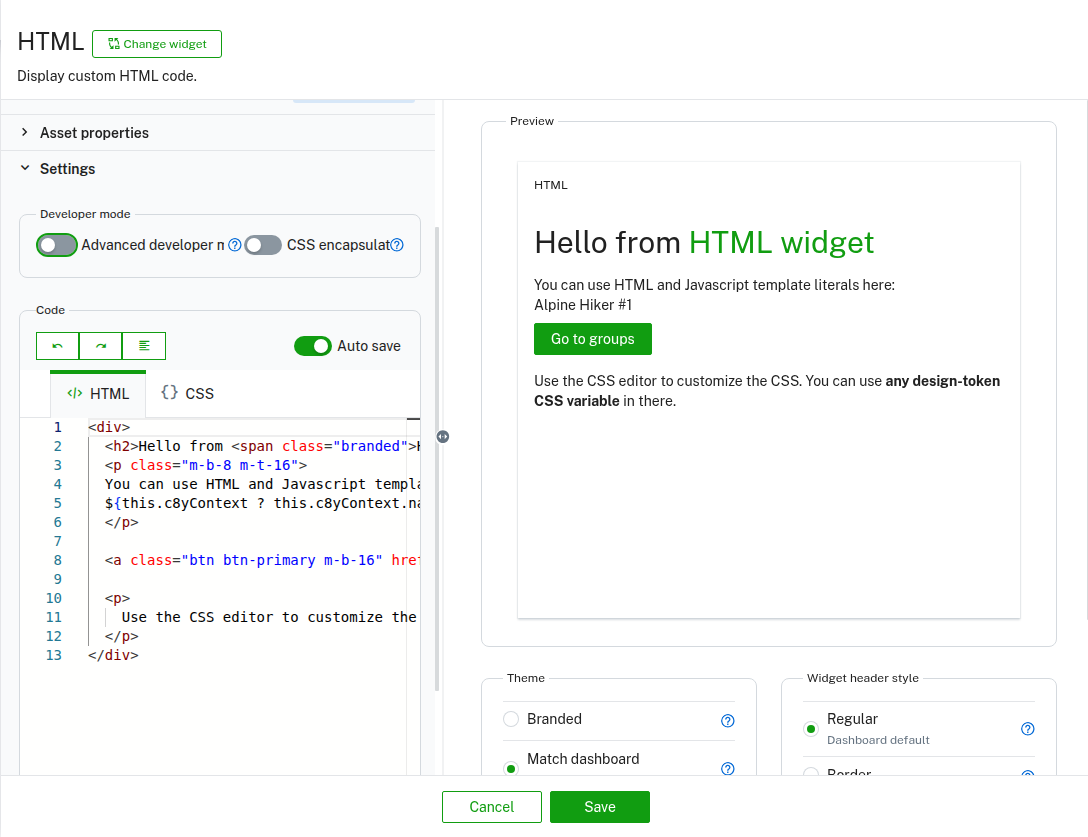
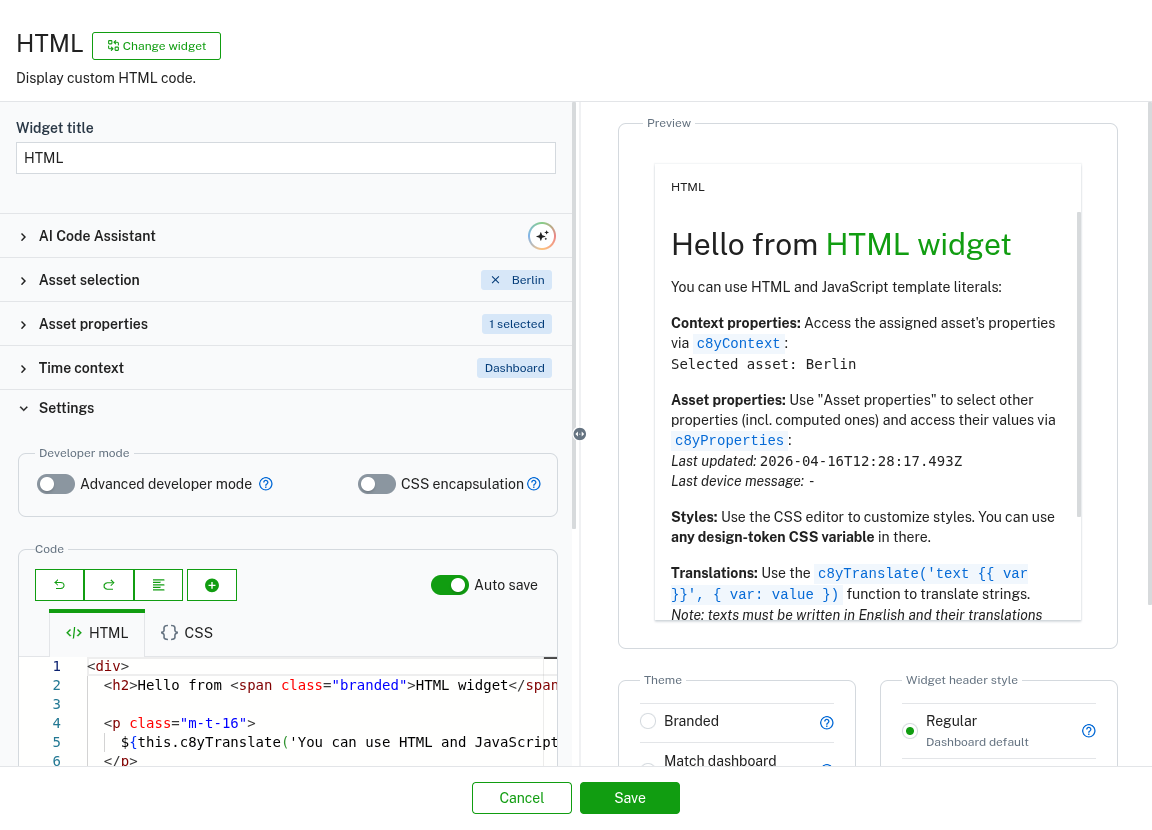
[MTM-66200] Updated docs for HTML widget

diff --git a/content/cockpit/widgets-collection.md b/content/cockpit/widgets-collection.md
@@ -229,12 +229,12 @@ The "HTML" widget displays user-defined content that can be formatted using HTML
 **Parameters to configure**
 
 * **Target assets or devices**: Select the objects for which optional HTML expressions are evaluated.
-* **Asset properties**: In the **Asset properties** section, you can copy the properties of the selected asset and paste them into the code editor under the **Settings** section.
+* **Asset properties**: In the **Asset properties** section, you can add mappings to asset properties. Click **Add mappings**, then select an asset, then select an asset/regular/computed property you'd like to use in the HTML code. Use icon buttons to copy a code expression, clear a mapping, assign another property, or remove a mapping. When you rename a mapping key, all references in the HTML code are updated automatically. At runtime, all mapped values are accessible in the HTML code under `this.c8yProperties`, a plain object keyed by the mapping names.
 
 The widget offers two distinct modes:
 
 1. **Normal mode**: You can apply HTML and CSS while adding properties as template literals. You can use simple expressions such as:
-   `${this.c8yContext ? this.c8yContext.name : 'No device selected'}`. The `${this.c8yContext}` variable always refers to the selected target asset.
+   `${this.c8yContext ? this.c8yContext?.name : 'No device selected'}`. The `${this.c8yContext}` variable always refers to the selected target asset. Use `${this.c8yProperties?.<mappingName>}` to access mapped asset properties.
 
 2. **Advanced mode**: When enabled, you can build complex web components using the Lit framework. You can import supported ECMAScript modules. By default, leaflet, echarts, fetch, and lit are provided. Whatever is rendered in the web component will be displayed to the end user. Additional requests can be performed by importing the fetch library. The following shows the available imports:
 
@@ -246,9 +246,28 @@ The widget offers two distinct modes:
    import { fetch } from 'fetch'; // Use this instead of default fetch to avoid potential issues
    ```
 
+**Inserting mapped properties into the code**
+
+When asset property mappings are configured, a dropdown button with plus icon appears in the code editor toolbar. Click a key to insert the appropriate template expression (for example, `${this.c8yProperties?.temperature}`) at the cursor position. Mapped keys also appear as autocomplete suggestions when typing `this.c8yProperties?.` or the name of a mapping.
+
+**Note**: in case the referenced property is a complex object (for example, a full measurement object), you need to explicitly access a specific field (for example, `${this.c8yProperties?.temperature?.value}` or `${this.c8yProperties?.temperature?.unit}`) or use `JSON.stringify(this.c8yProperties?.temperature)` to display whole object as a string.
+
+**Auto-refresh**
+
+The HTML widget is integrated with the dashboard's global time context for auto-refresh control. On a dashboard, a link/unlink button is displayed in the widget's title bar. When unlinked from the global time context, an auto-refresh toggle appears directly in the widget. Values in both `c8yContext` and `c8yProperties` are updated automatically when auto-refresh is enabled.
+
+**Translations**
+
+The HTML widget supports translations via `c8yTranslate`:
+
+- `${this.c8yTranslate('Text to translate')}`
+- `${this.c8yTranslate('text {{ var }}', { var: value })}`
+
+**Note**: texts must be written in English and their translations must be available in the standard application translations, or in the custom ones provided via the [localization feature](/standard-tenant/changing-settings/#localization), or in the [application options](/web/application-configuration/#languages-customization).
+
 **Styling and security considerations**
 
-When using styles, global styles can be applied if encapsulation is not enabled. Styles should always use CSS variables and tokens to ensure compatibility with dark mode and custom brandings. 
+When using styles, global styles can be applied if encapsulation is not enabled. Styles should always use CSS variables and tokens to ensure compatibility with dark mode and custom brandings.
 
 By default, the normal HTML widget is sanitized for security, while in advanced mode the developer is responsible for proper sanitization. You can modify the default sanitization behavior in the [Cockpit application configuration](/cockpit/cockpit-configuration/).
 
